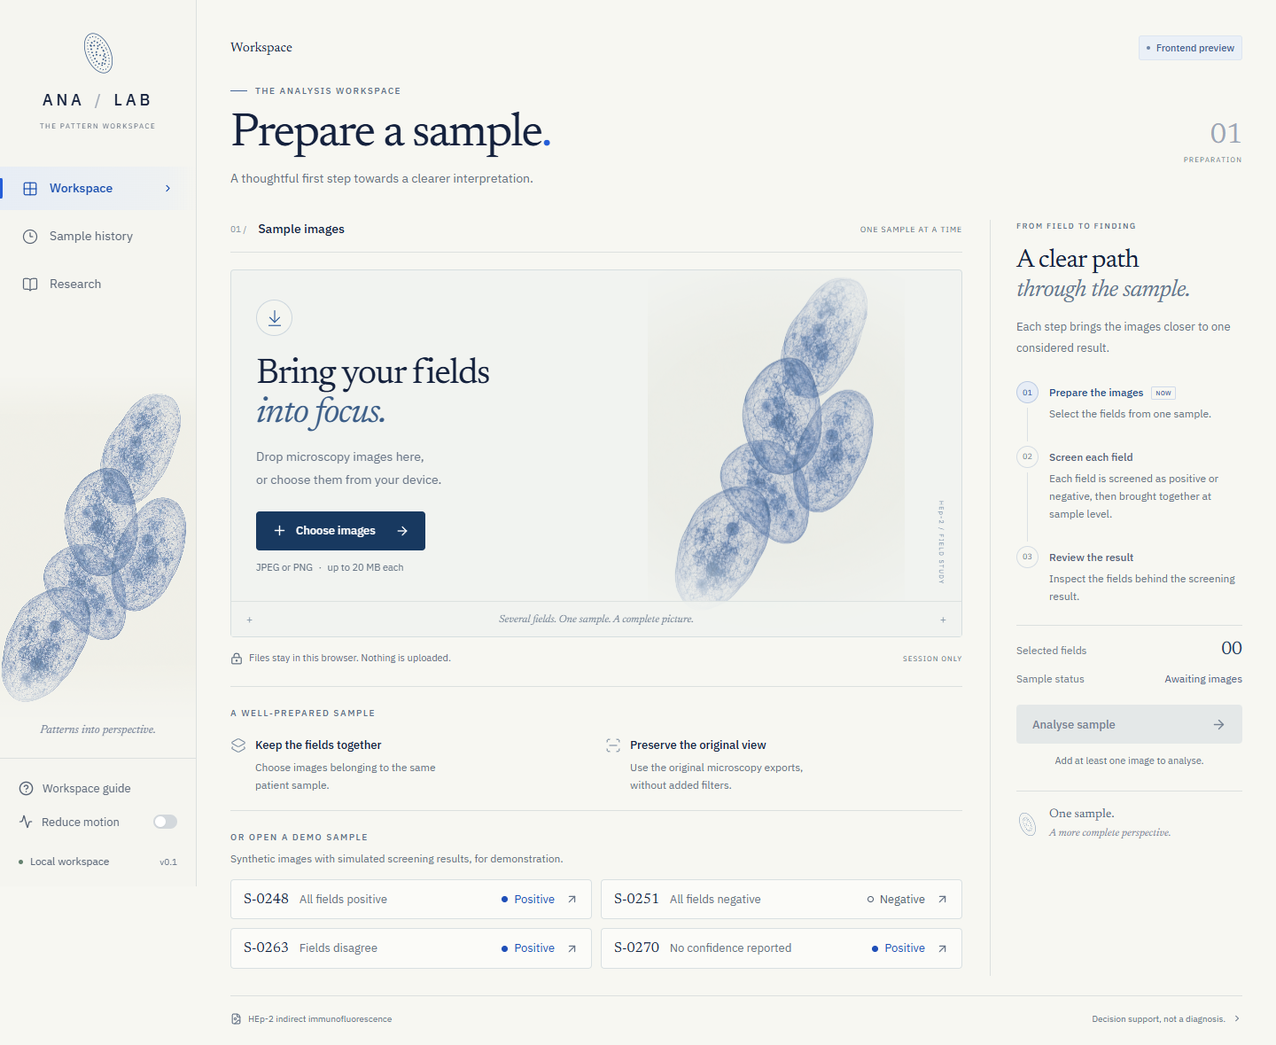
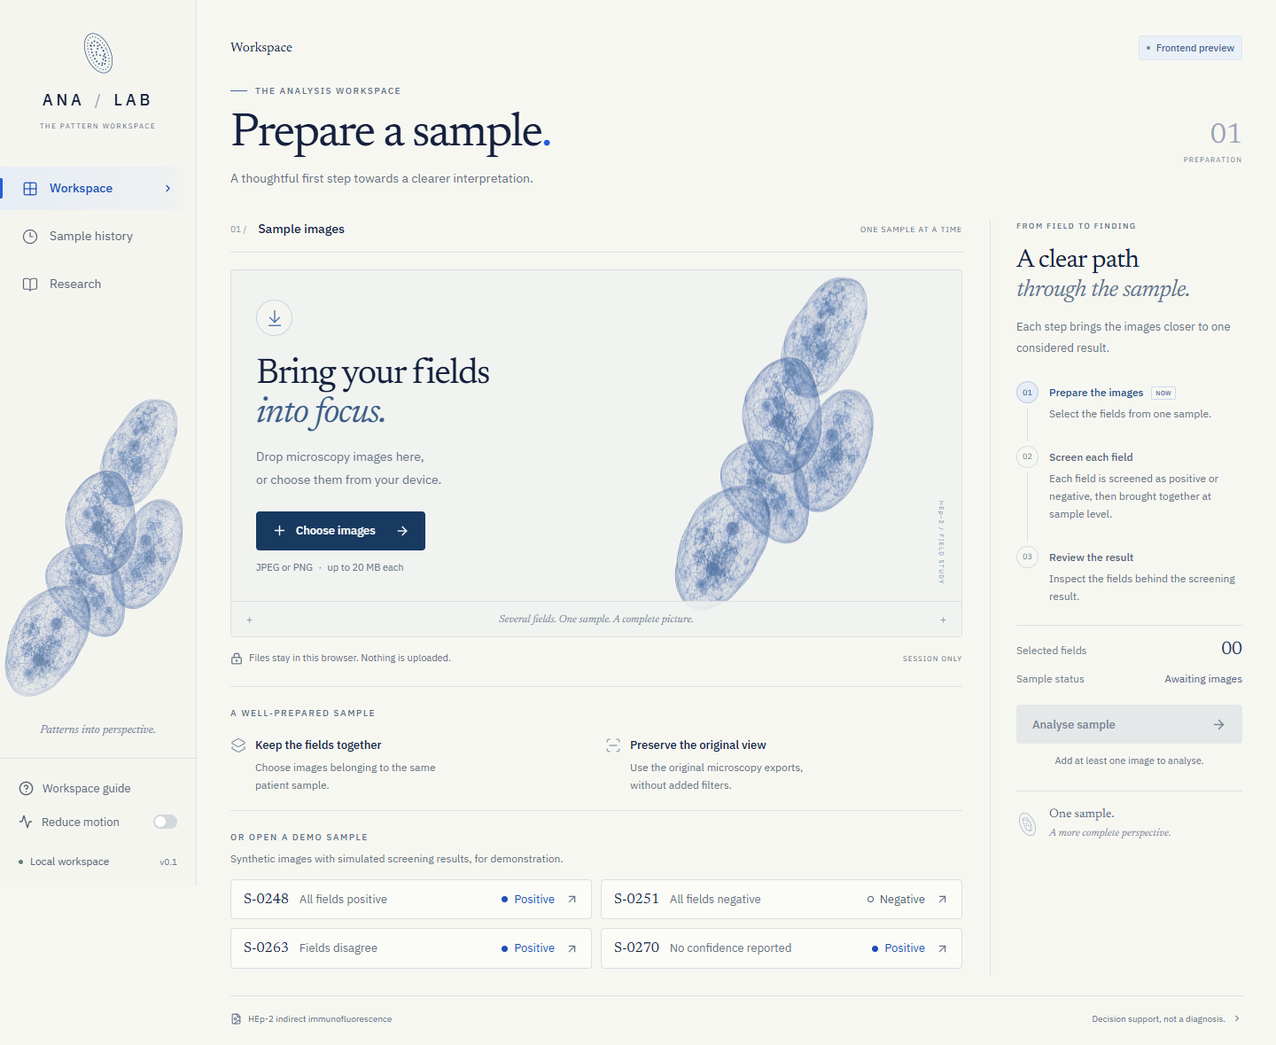
website is responsive now

Changed region(s): [[0.0, 0.3664, 0.1562, 0.6718], [0.625, 0.2443, 0.6875, 0.3053], [0.5312, 0.5191, 0.5938, 0.5802]]

diff --git a/frontend/src/styles/global.css b/frontend/src/styles/global.css
@@ -35,7 +35,7 @@ svg { flex-shrink: 0; }
 .sr-only { position: absolute; width: 1px; height: 1px; padding: 0; overflow: hidden; clip: rect(0, 0, 0, 0); white-space: nowrap; border: 0; }
 .skip-link { position: fixed; z-index: 100; top: 10px; left: 10px; padding: 12px 20px; background: var(--color-ink); color: white; transform: translateY(-160%); }
 .skip-link:focus { transform: translateY(0); }
-.desktop-sidebar { position: fixed; inset: 0 auto 0 0; width: var(--sidebar); border-right: 1px solid var(--line); display: flex; flex-direction: column; z-index: 20; background: #f5f5f0; }
+.desktop-sidebar { position: fixed; inset: 0 auto 0 0; width: var(--sidebar); border-right: 1px solid var(--line); display: flex; flex-direction: column; z-index: 20; background: #f5f5f0; overflow-y: auto; overscroll-behavior: contain; scrollbar-width: thin; }
 .brand { display: flex; flex-direction: column; align-items: center; padding: 31px 16px 29px; gap: 10px; }
 .brand-mark { width: 44px; height: 58px; color: #315482; }
 .brand > span { font-weight: 500; font-size: 18px; letter-spacing: .21em; }
@@ -47,8 +47,8 @@ svg { flex-shrink: 0; }
 .nav-link.active { color: #164cae; background: linear-gradient(90deg, #e7edf5, #eef1f2 85%, transparent); font-weight: 500; }
 .active-marker { position: absolute; left: 0; top: 13px; bottom: 13px; width: 3px; border-radius: 0 2px 2px 0; background: var(--color-accent); }
 .nav-chevron { margin-left: auto; }
-.sidebar-art { flex: 1; min-height: 130px; position: relative; overflow: hidden; display: flex; flex-direction: column; justify-content: flex-end; }
-.sidebar-art img { width: 122%; max-width: none; margin-left: -12%; height: min(43vh, 390px); object-fit: cover; object-position: 50% 52%; mix-blend-mode: multiply; opacity: .63; mask-image: linear-gradient(transparent, black 12%, black 83%, transparent); }
+.sidebar-art { flex: 1 1 0; min-height: 0; position: relative; overflow: hidden; display: flex; flex-direction: column; justify-content: flex-end; }
+.sidebar-art img { flex: 0 1 auto; min-height: 0; width: 122%; max-width: none; margin-left: -12%; height: auto; max-height: 390px; object-fit: contain; object-position: 50% 100%; opacity: .63; mask-image: linear-gradient(transparent, black 10%, black 85%, transparent); }
 .sidebar-art > span { display: block; font: italic 13px var(--font-display); color: #738096; text-align: center; margin: 4px 0 25px; }
 .sidebar-bottom { padding: 15px 21px 19px; border-top: 1px solid var(--line); }
 .help-button { display: flex; gap: 10px; align-items: center; padding: 9px 0; background: none; border: 0; color: #586476; font-size: 12px; transition: color .15s; }
@@ -113,7 +113,7 @@ h1 { font: 400 clamp(38px, 3.7vw, 56px)/1.08 var(--font-display); letter-spacing
 .upload-formats { display: block; margin-top: 11px; font-size: 10px; color: #6e7a89; }
 .upload-formats > span { margin-inline: 4px; }
 .upload-art { position: absolute; inset: 0 0 40px 43%; pointer-events: none; }
-.upload-art img { height: 117%; width: 115%; max-width: none; object-fit: contain; position: absolute; top: -6%; left: -2%; mix-blend-mode: multiply; opacity: .69; animation: float-etching 12s ease-in-out infinite; mask-image: linear-gradient(90deg, transparent, black 18%, black 93%, transparent); }
+.upload-art img { height: 117%; width: 115%; max-width: none; object-fit: contain; position: absolute; top: -6%; left: -2%; opacity: .69; animation: float-etching 12s ease-in-out infinite; }
 .art-orbit { position: absolute; border: 1px solid #7c99ba1f; width: 230px; height: 230px; border-radius: 50%; z-index: -1; top: 17%; left: 3%; }
 .orbit-two { width: 275px; height: 275px; top: 10%; left: -6%; }
 .art-coordinate { position: absolute; bottom: 19px; right: 18px; writing-mode: vertical-rl; letter-spacing: .2em; font-size: 7px; color: #758ca6; }
@@ -198,7 +198,7 @@ h1 { font: 400 clamp(38px, 3.7vw, 56px)/1.08 var(--font-display); letter-spacing
 .future-copy > p { font-size: 14px; line-height: 1.9; color: #69788d; margin: 23px 0; max-width: 390px; }
 .coming-note { display: flex; gap: 12px; align-items: center; margin: 25px 0; font-size: 11px; color: #6e7e8e; }
 .future-art { position: relative; height: 500px; }
-.future-art img { height: 100%; width: 100%; object-fit: contain; mix-blend-mode: multiply; opacity: .75; mask-image: linear-gradient(transparent, black 12%, black 85%, transparent); }
+.future-art img { height: 100%; width: 100%; object-fit: contain; opacity: .75; }
 .future-art > span { position: absolute; bottom: 7px; left: 0; width: 100%; text-align: center; letter-spacing: .16em; font-size: 8px; color: #7c8ea5; }
 .future-feature-row { display: grid; grid-template-columns: repeat(3, 1fr); gap: 25px; border-top: 1px solid var(--line); padding: 25px 0; }
 .future-feature-row > span { display: flex; justify-content: space-between; gap: 10px; align-items: center; font-size: 11px; color: #647790; }
@@ -332,7 +332,6 @@ h1 { font: 400 clamp(38px, 3.7vw, 56px)/1.08 var(--font-display); letter-spacing
 .image-tile figcaption small { font-size: 10px; color: #647286; }
 .file-errors > div, .file-errors ul { font-size: 12px; }
 .coming-note, .future-feature-row > span { font-size: 13px; }
-.upload-art img { mask-image: radial-gradient(ellipse at center, black 40%, transparent 73%); }
 .spin { animation: spin 1s linear infinite; }
 @keyframes float-etching { 0%, 100% { transform: translateY(0); } 50% { transform: translateY(-4px); } }
 @keyframes spin { to { transform: rotate(360deg); } }
@@ -343,9 +342,12 @@ html[data-visibility='hidden'] .upload-art img { animation-play-state: paused; }
 html[data-motion='reduced'] *, html[data-motion='reduced'] *::before, html[data-motion='reduced'] *::after { animation-duration: .01ms !important; animation-iteration-count: 1 !important; transition-duration: .01ms !important; scroll-behavior: auto !important; }
 @media (prefers-reduced-motion: reduce) { *, *::before, *::after { animation-duration: .01ms !important; animation-iteration-count: 1 !important; transition-duration: .01ms !important; scroll-behavior: auto !important; } }
 @media (min-width: 1600px) { :root { --sidebar: 242px; } .route-content { padding: 48px 58px 0; } .workspace-layout { grid-template-columns: minmax(0, 1fr) 320px; gap: 42px; } .workflow-panel { padding-left: 35px; } .upload-empty { min-height: 444px; } .upload-copy { padding: 46px 40px 70px; } .upload-copy h3 { font-size: 46px; } .upload-copy p { font-size: 14px; } .upload-art { left: 44%; } .section-heading h2 { font-size: 15px; } .workflow-lead, .workflow-steps p { font-size: 12px; } .workflow-steps h3 { font-size: 13px; } .workflow-panel > h2 { font-size: 33px; } .workflow-panel > h2 em { font-size: 31px; } .guidance-items h3, .guidance-items p { font-size: 12px; } .workflow-steps { margin-top: 35px; } .workflow-steps li { padding-bottom: 30px; } }
+/* Short windows (laptops at 125% scaling, split screens): tighten the sidebar so the art keeps some room, and drop it when it would be a sliver. */
+@media (max-height: 780px) { .brand { padding: 22px 16px 18px; gap: 7px; } .brand-mark { width: 38px; height: 50px; } .navigation { margin-top: 4px; } .sidebar-art > span { margin-bottom: 16px; } .sidebar-bottom { padding-block: 11px 13px; } }
+@media (max-height: 600px) { .sidebar-art > * { display: none; } }
 @media (max-width: 1190px) { :root { --sidebar: 190px; } .route-content { padding: 32px 26px 0; } .workspace-layout { grid-template-columns: minmax(0, 1fr) 242px; gap: 22px; } .workflow-panel { padding-left: 22px; } .upload-copy { padding-left: 22px; } .upload-art { left: 41%; opacity: .65; } .upload-copy h3 { font-size: 35px; } .workflow-panel > h2 { font-size: 26px; } .workflow-panel > h2 em { font-size: 24px; } .nav-link { padding-inline: 20px; } .session-label { display: none; } .count-label { font-size: 7px; } .guidance-items { gap: 14px; } .image-tile-photo { height: 150px; } }
 @media (max-width: 960px) { :root { --sidebar: 176px; } .workspace-layout { grid-template-columns: 1fr; gap: 30px; } .workflow-panel { border-left: none; border-top: 1px solid var(--line); padding: 24px 0 0; display: grid; grid-template-columns: 1fr 1fr; gap: 0 24px; } .workflow-panel > .eyebrow { grid-column: 1 / -1; } .workflow-panel > h2 { grid-column: 1; } .workflow-lead { grid-column: 1; margin-bottom: 15px; } .workflow-steps { grid-column: 2; grid-row: 2 / span 3; margin: 0; } .sample-summary { grid-column: 1; margin-top: 0; } .button-analysis { grid-column: 1; } .availability-note { grid-column: 1; } .principle { grid-column: 2; grid-row: 5 / span 2; align-self: start; margin-top: 9px; } .intro-index { display: none; } .future-layout { grid-template-columns: 1fr; min-height: auto; padding-top: 35px; } .future-art { display: none; } .future-feature-row { grid-template-columns: 1fr; } .upload-art { opacity: 1; left: 47%; } .upload-empty { min-height: 365px; } .nav-link { padding-inline: 17px; font-size: 12px; } .brand small { font-size: 7px; } .sidebar-bottom { padding-inline: 15px; } .motion-control { gap: 7px; font-size: 12px; } .help-button { font-size: 12px; } }
-@media (max-width: 700px) { :root { --sidebar: 0px; } .desktop-sidebar { display: none; } .mobile-bar { display: flex; align-items: center; justify-content: space-between; padding: 8px 20px; border-bottom: 1px solid var(--line); background: #f7f7f2; } .mobile-brand { display: flex; align-items: center; gap: 8px; font-size: 13px; letter-spacing: .15em; font-weight: 500; } .mobile-brand svg { width: 23px; height: 34px; } .mobile-drawer { position: fixed; top: 0; bottom: 0; left: 0; width: min(285px, 85vw); z-index: 51; display: flex; flex-direction: column; background: var(--color-canvas); box-shadow: 10px 0 50px #14213d1a; animation: drawer-in .25s var(--ease); } .drawer-close { position: absolute; right: 10px; top: 10px; } .mobile-drawer .sidebar-art img { height: min(35vh, 360px); } .mobile-drawer .sidebar-bottom { padding-inline: 25px; } .mobile-drawer .brand { padding-top: 25px; } .route-content { padding: 29px 22px 0; } .page-intro { margin-bottom: 27px; } .page-intro h1 { font-size: 42px; } .page-intro p { font-size: 12px; } .eyebrow { font-size: 8px; } .section-heading { margin-bottom: 15px; } .upload-art { left: 43%; opacity: .62; } .upload-empty { min-height: 377px; } .upload-copy { padding-top: 28px; padding-left: 23px; } .upload-copy h3 { font-size: 36px; } .upload-copy p { font-size: 12px; max-width: 210px; } .upload-bottom { font-size: 11px; padding-inline: 13px; } .upload-formats { font-size: 9px; } .guidance-items { gap: 17px; } .guidance-items > div { flex-direction: column; gap: 9px; } .guidance-items p { font-size: 10px; } .workflow-panel { display: block; } .workflow-panel h2 br { display: none; } .workflow-panel h2 em { font-size: 25px; } .workflow-panel > h2 { font-size: 25px; } .workflow-panel > h2 em::before { content: ' '; } .workflow-lead { max-width: none; } .workflow-steps { margin-top: 24px; } .workflow-steps h3 { font-size: 12px; } .workflow-steps p { font-size: 11px; } .sample-summary { margin-top: 25px; } .principle { display: none; } .availability-note { margin-bottom: 0; } .page-footer { flex-direction: column; gap: 9px; margin-top: 24px; padding-block: 17px; } .image-tile-photo { height: 145px; } .selected-images { padding: 12px; } .image-grid { gap: 10px; } .image-tile figcaption { padding: 8px; } .image-tile figcaption small { font-size: 8px; } .image-tile figcaption > span { font-size: 10px; } .dialog-content { padding: 28px; } .dialog-title { font-size: 30px; } .future-page { padding-top: 8px; } .future-copy h1 { font-size: 45px; } .coming-note { align-items: flex-start; font-size: 10px; } .future-copy > p { font-size: 13px; } .confirm-actions { flex-wrap: wrap; } }
+@media (max-width: 700px) { :root { --sidebar: 0px; } .desktop-sidebar { display: none; } .mobile-bar { display: flex; align-items: center; justify-content: space-between; padding: 8px 20px; border-bottom: 1px solid var(--line); background: #f7f7f2; } .mobile-brand { display: flex; align-items: center; gap: 8px; font-size: 13px; letter-spacing: .15em; font-weight: 500; } .mobile-brand svg { width: 23px; height: 34px; } .mobile-drawer { position: fixed; top: 0; bottom: 0; left: 0; width: min(285px, 85vw); z-index: 51; display: flex; flex-direction: column; background: var(--color-canvas); box-shadow: 10px 0 50px #14213d1a; animation: drawer-in .25s var(--ease); overflow-y: auto; } .drawer-close { position: absolute; right: 10px; top: 10px; } .mobile-drawer .sidebar-art img { max-height: min(35vh, 360px); } .mobile-drawer .sidebar-bottom { padding-inline: 25px; } .mobile-drawer .brand { padding-top: 25px; } .route-content { padding: 29px 22px 0; } .page-intro { margin-bottom: 27px; } .page-intro h1 { font-size: 42px; } .page-intro p { font-size: 12px; } .eyebrow { font-size: 8px; } .section-heading { margin-bottom: 15px; } .upload-art { left: 43%; opacity: .62; } .upload-empty { min-height: 377px; } .upload-copy { padding-top: 28px; padding-left: 23px; } .upload-copy h3 { font-size: 36px; } .upload-copy p { font-size: 12px; max-width: 210px; } .upload-bottom { font-size: 11px; padding-inline: 13px; } .upload-formats { font-size: 9px; } .guidance-items { gap: 17px; } .guidance-items > div { flex-direction: column; gap: 9px; } .guidance-items p { font-size: 10px; } .workflow-panel { display: block; } .workflow-panel h2 br { display: none; } .workflow-panel h2 em { font-size: 25px; } .workflow-panel > h2 { font-size: 25px; } .workflow-panel > h2 em::before { content: ' '; } .workflow-lead { max-width: none; } .workflow-steps { margin-top: 24px; } .workflow-steps h3 { font-size: 12px; } .workflow-steps p { font-size: 11px; } .sample-summary { margin-top: 25px; } .principle { display: none; } .availability-note { margin-bottom: 0; } .page-footer { flex-direction: column; gap: 9px; margin-top: 24px; padding-block: 17px; } .image-tile-photo { height: 145px; } .selected-images { padding: 12px; } .image-grid { gap: 10px; } .image-tile figcaption { padding: 8px; } .image-tile figcaption small { font-size: 8px; } .image-tile figcaption > span { font-size: 10px; } .dialog-content { padding: 28px; } .dialog-title { font-size: 30px; } .future-page { padding-top: 8px; } .future-copy h1 { font-size: 45px; } .coming-note { align-items: flex-start; font-size: 10px; } .future-copy > p { font-size: 13px; } .confirm-actions { flex-wrap: wrap; } }
 @keyframes drawer-in { from { transform: translateX(-100%); } to { transform: translateX(0); } }
 @media (max-width: 1190px) {
   .workflow-steps p { font-size: 11px; }

diff --git a/frontend/src/features/FuturePage.tsx b/frontend/src/features/FuturePage.tsx
@@ -7,5 +7,5 @@ export function FuturePage({ kind }: { kind: 'history' | 'research' | 'missing' 
   const history = kind === 'history'
   const missing = kind === 'missing'
   const Icon = missing ? Grid2X2 : history ? Clock3 : BookOpen
-  return <><PageHeader crumbs={[{ label: missing ? 'Not found' : history ? 'Sample history' : 'Research' }]} /><section className="future-page"><div className="eyebrow">{missing ? 'PAGE NOT FOUND' : 'PLANNED FOR A LATER VERSION'}</div><div className="future-layout"><div className="future-copy"><span className="future-icon"><Icon size={27} strokeWidth={1.2} /></span><h1>{missing ? 'A different direction.' : history ? 'A record of every review.' : 'Where evidence takes shape.'}</h1><p>{missing ? 'This page does not exist. Your sample workspace is one step away.' : history ? 'A considered space to find samples, revisit their images, and trace each interpretation.' : 'A dedicated view of the research behind the workspace: flat and staged designs, evaluated side by side.'}</p>{!missing && <div className="coming-note"><Badge>Coming later</Badge><span>{history ? 'Sample history has not been implemented yet.' : 'Experiment results have not been connected yet.'}</span></div>}<Link to="/workspace" className="button button-primary"><ArrowLeft size={16} />Back to workspace</Link></div><div className="future-art" aria-hidden="true"><img src="/assets/cell-etching.png" alt="" /><span>THE SCIENCE OF SEEING MORE</span></div></div>{!missing && <div className="future-feature-row">{(history ? ['Search by sample reference', 'Filter and revisit results', 'Trace model versions'] : ['Compare flat and staged designs', 'Inspect per-pattern performance', 'Measure expert agreement']).map(text => <span key={text}>{text}<ArrowUpRight size={15} /></span>)}</div>}</section></>
+  return <><PageHeader crumbs={[{ label: missing ? 'Not found' : history ? 'Sample history' : 'Research' }]} /><section className="future-page"><div className="eyebrow">{missing ? 'PAGE NOT FOUND' : 'PLANNED FOR A LATER VERSION'}</div><div className="future-layout"><div className="future-copy"><span className="future-icon"><Icon size={27} strokeWidth={1.2} /></span><h1>{missing ? 'A different direction.' : history ? 'A record of every review.' : 'Where evidence takes shape.'}</h1><p>{missing ? 'This page does not exist. Your sample workspace is one step away.' : history ? 'A considered space to find samples, revisit their images, and trace each interpretation.' : 'A dedicated view of the research behind the workspace: flat and staged designs, evaluated side by side.'}</p>{!missing && <div className="coming-note"><Badge>Coming later</Badge><span>{history ? 'Sample history has not been implemented yet.' : 'Experiment results have not been connected yet.'}</span></div>}<Link to="/workspace" className="button button-primary"><ArrowLeft size={16} />Back to workspace</Link></div><div className="future-art" aria-hidden="true"><img src="/assets/cell-etching.webp" alt="" /><span>THE SCIENCE OF SEEING MORE</span></div></div>{!missing && <div className="future-feature-row">{(history ? ['Search by sample reference', 'Filter and revisit results', 'Trace model versions'] : ['Compare flat and staged designs', 'Inspect per-pattern performance', 'Measure expert agreement']).map(text => <span key={text}>{text}<ArrowUpRight size={15} /></span>)}</div>}</section></>
 }

diff --git a/frontend/src/features/workspace/Workspace.tsx b/frontend/src/features/workspace/Workspace.tsx
@@ -81,7 +81,7 @@ export function Workspace() {
         <input ref={input} id="sample-files" data-testid="file-input" type="file" accept="image/jpeg,image/png" multiple className="sr-only" tabIndex={-1} onChange={event => { void addFiles(Array.from(event.target.files ?? [])); event.target.value = '' }} />
         <div ref={surface} className={`upload-surface ${dragging ? 'dragging' : ''} ${hasImages ? 'has-images' : ''}`} onDragEnter={event => { event.preventDefault(); if (!event.dataTransfer.types.includes('Files')) return; dragDepth.current += 1; setDragging(true) }} onDragOver={event => event.preventDefault()} onDragLeave={event => { event.preventDefault(); dragDepth.current -= 1; if (dragDepth.current <= 0) setDragging(false) }} onDrop={onDrop} aria-busy={busy}>
           {!hasImages ? <div className="upload-empty">
-            <div className="upload-art" aria-hidden="true"><img src="/assets/cell-etching.png" alt="" /><div className="art-orbit orbit-one" /><div className="art-orbit orbit-two" /><span className="art-coordinate">HEp-2 / FIELD STUDY</span></div>
+            <div className="upload-art" aria-hidden="true"><img src="/assets/cell-etching.webp" alt="" /><div className="art-orbit orbit-one" /><div className="art-orbit orbit-two" /><span className="art-coordinate">HEp-2 / FIELD STUDY</span></div>
             <div className="upload-copy"><span className="upload-symbol"><ArrowDownToLine size={22} strokeWidth={1.3} /></span><h3>Bring your fields<br /><em>into focus.</em></h3><p>Drop microscopy images here,<br className="desktop-break" /> or choose them from your device.</p><button ref={chooseButton} className="button button-primary" onClick={() => input.current?.click()} disabled={busy}>{busy ? <LoaderCircle size={16} className="spin" /> : <Plus size={17} />}Choose images<ArrowRight size={16} className="button-arrow" /></button><span className="upload-formats">JPEG or PNG <span>·</span> up to 20 MB each</span></div>
             <div className="upload-bottom"><span className="mini-cross">+</span><span>Several fields. One sample. A complete picture.</span><span className="mini-cross">+</span></div>
           </div> : <div className="selected-images">

diff --git a/frontend/e2e/workspace.spec.ts b/frontend/e2e/workspace.spec.ts
@@ -73,3 +73,18 @@ test('desktop and mobile layouts stay within viewport and mobile navigation work
   await expect(page.getByRole('heading', { name: 'Where evidence takes shape.' })).toBeVisible()
   await expect(page.getByRole('dialog', { name: 'Navigation', exact: true })).not.toBeVisible()
 })
+
+test('on short laptop windows the sidebar artwork scales to fit instead of being cut off', async ({ page }) => {
+  for (const [width, height] of [[1536, 730], [1366, 650], [1280, 800]]) {
+    await page.setViewportSize({ width, height })
+    await openWorkspace(page)
+    const art = await page.locator('.desktop-sidebar .sidebar-art').evaluate(container => {
+      const box = container.getBoundingClientRect()
+      const image = container.querySelector('img')!.getBoundingClientRect()
+      return { inside: image.top >= box.top - 0.5 && image.bottom <= box.bottom + 0.5, height: image.height }
+    })
+    expect(art.inside, `${width}×${height}`).toBe(true)
+    expect(art.height).toBeGreaterThan(100)
+    await expect(page.locator('.desktop-sidebar').getByRole('button', { name: 'About this workspace' })).toBeInViewport()
+  }
+})

diff --git a/frontend/src/components/layout/Sidebar.tsx b/frontend/src/components/layout/Sidebar.tsx
@@ -40,7 +40,7 @@ function SidebarContent({ onNavigate }: { onNavigate?: () => void }) {
         </Link>
       })}
     </nav>
-    <div className="sidebar-art" aria-hidden="true"><img src="/assets/cell-etching.png" alt="" /><span>Patterns into perspective.</span></div>
+    <div className="sidebar-art" aria-hidden="true"><img src="/assets/cell-etching.webp" alt="" /><span>Patterns into perspective.</span></div>
     <div className="sidebar-bottom"><HelpDialog /><MotionSwitch /><div className="local-status"><span className="status-dot" /><span>Local workspace</span><span className="version-label">v0.1</span></div></div>
   </>
 }

diff --git a/frontend/scripts/optimise-assets.py b/frontend/scripts/optimise-assets.py
@@ -1,14 +1,32 @@
 """Convert source artwork in assets-source/ into web-sized WebP files in public/assets/.
 
-Run from frontend/:  python scripts/optimise-assets.py   (requires Pillow)
+Run from frontend/:  python scripts/optimise-assets.py   (requires Pillow and NumPy)
 """
 from pathlib import Path
+import numpy as np
 from PIL import Image
 
 SOURCE = Path('assets-source')
 TARGET = Path('public/assets')
 # Longest edge in px. Fields are shown full-screen in the viewer; illustrations are decorative.
-MAX_EDGE = {'field-': 1536, 'screen-': 720, 'analysis-field': 1280, 'empty-slide': 1280}
+MAX_EDGE = {'field-': 1536, 'screen-': 720, 'analysis-field': 1280, 'empty-slide': 1280, 'cell-etching': 1200}
+# Artwork drawn on ivory paper that is laid over varying backgrounds, so it needs real transparency.
+TRANSPARENT = {'cell-etching'}
+
+
+def paper_to_alpha(image: Image.Image) -> Image.Image:
+    """Turn the ivory paper into transparency and un-blend the ink, so no box or blend mode is needed."""
+    rgb = np.asarray(image, dtype=np.float32) / 255
+    paper = rgb[2, 2]
+    ink = np.array([0.08, 0.235, 0.486], dtype=np.float32)  # Deepest cobalt in the etching (0.5th percentile).
+    # How far each pixel has moved from the paper towards the ink, per channel; the largest wins.
+    alpha = np.clip(((paper - rgb) / (paper - ink)).max(axis=2), 0, 1)
+    alpha[alpha < 0.02] = 0
+    safe = np.where(alpha > 0, alpha, 1)[..., None]
+    colour = np.clip((rgb - (1 - alpha[..., None]) * paper) / safe, 0, 1)
+    rgba = np.dstack([colour, alpha]) * 255
+    return Image.fromarray(rgba.round().astype(np.uint8))  # H×W×4 uint8 is read as RGBA
+
 
 for source in sorted(SOURCE.glob('*.png')):
     edge = next((size for prefix, size in MAX_EDGE.items() if source.stem.startswith(prefix)), None)
@@ -16,7 +34,9 @@ for source in sorted(SOURCE.glob('*.png')):
         continue
     image = Image.open(source).convert('RGB')
     image.thumbnail((edge, edge), Image.Resampling.LANCZOS)
-    if not source.stem.startswith('field-'):
+    if source.stem in TRANSPARENT:
+        image = paper_to_alpha(image)
+    elif not source.stem.startswith('field-'):
         # Map the ivory paper colour to pure white so `mix-blend-mode: multiply` leaves no visible box.
         paper = image.getpixel((2, 2))
         image = Image.merge('RGB', [band.point(lambda value, ref=ref: min(255, round(value * 255 / ref))) for band, ref in zip(image.split(), paper)])

diff --git a/frontend/public/assets/README.md b/frontend/public/assets/README.md
@@ -6,7 +6,7 @@ All images here are **generated artwork**. None of them is real microscopy, an A
 
 | File | Use |
 | --- | --- |
-| `cell-etching.png` | Sidebar, upload empty state, placeholder pages |
+| `cell-etching.webp` | Sidebar, upload empty state, placeholder pages. Transparent background (the ivory paper is converted to alpha by the script), so it sits on any surface with no box. `cell-etching.png` is the opaque original, kept here as an upload fixture for the e2e tests |
 | `screen-positive.webp` / `screen-negative.webp` | Result panel art for ANA positive / negative |
 | `analysis-field.webp` | Analysis-in-progress screen |
 | `empty-slide.webp` | Empty and not-found states |

diff --git a/CLAUDE.md b/CLAUDE.md
@@ -1,3 +1,4 @@
+
 # CLAUDE.md
 
 This file provides guidance to Claude Code (claude.ai/code) when working with code in this repository.
